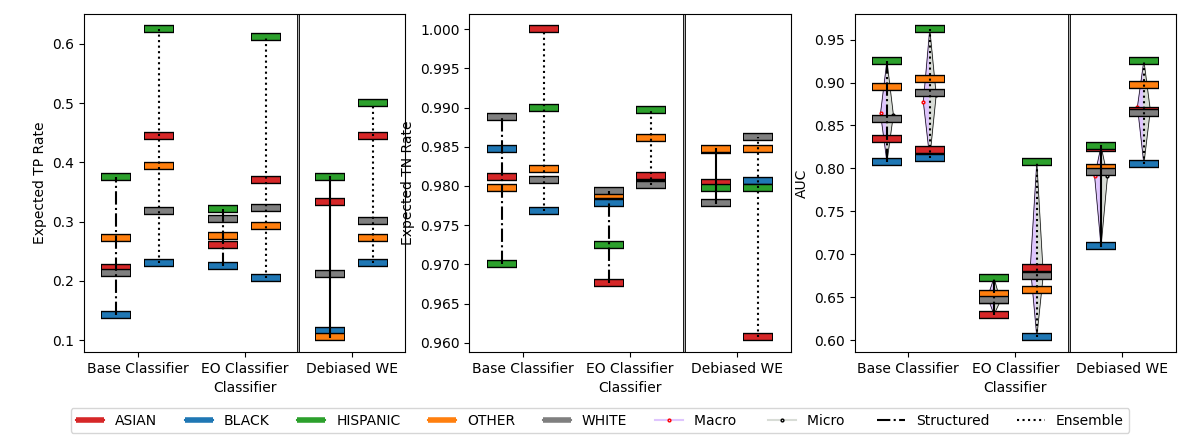
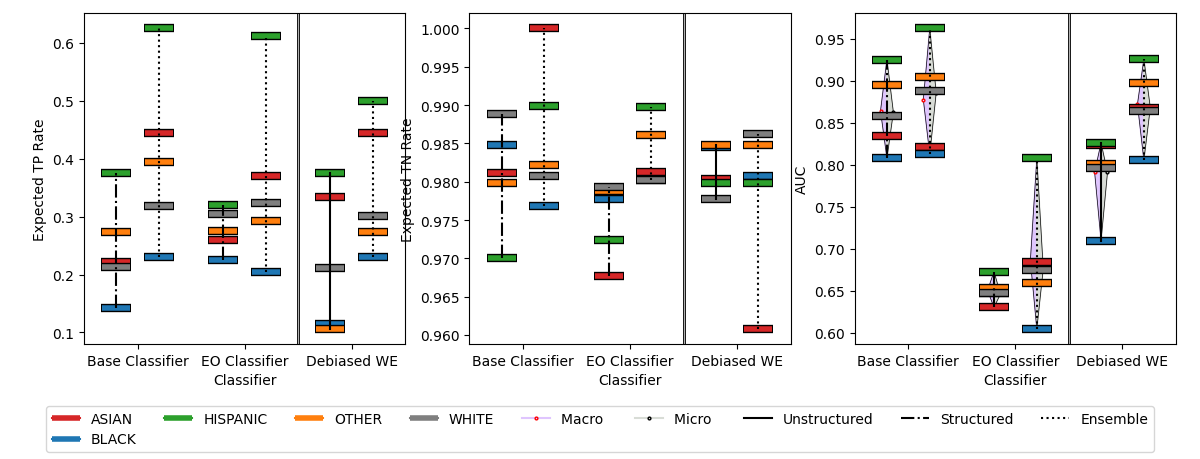
Fixes fair_postprocess to display correct legend

diff --git a/mimic3models/fair_postprocess.py b/mimic3models/fair_postprocess.py
@@ -1256,8 +1256,8 @@ if __name__ == "__main__":
         labels += ["Macro ", "Micro "]
 
         lines += [mpl.lines.Line2D([0], [0], color="black", linestyle=style) for style in
-                  ('dashdot', 'dotted')]
-        labels += ['Structured', 'Ensemble']
+                  ('solid', 'dashdot', 'dotted')]
+        labels += ['Unstructured', 'Structured', 'Ensemble']
 
         plt.grid(False)
         plt.tight_layout()
